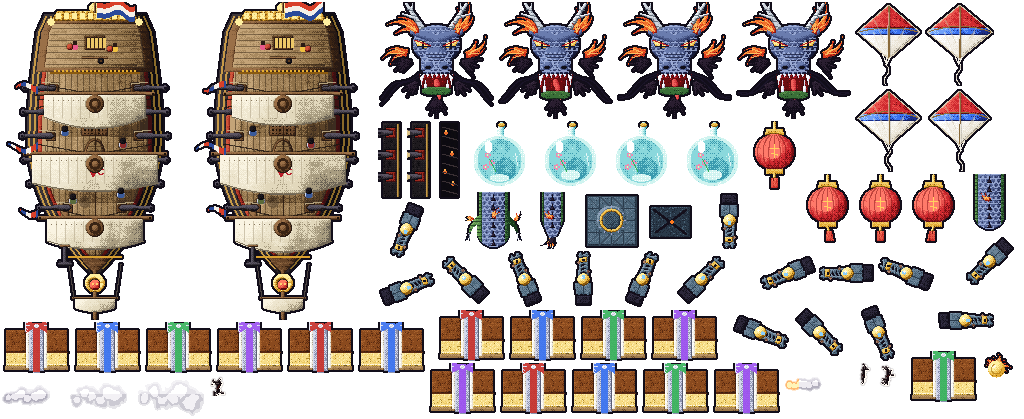
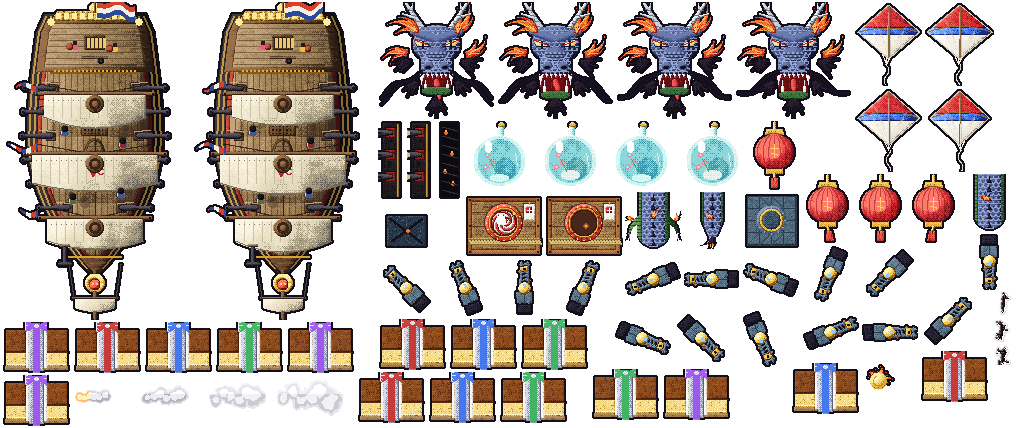
Ja-odori fought mostly with fireworks: festival mortars for launchers, a cooldown, more life
The three launchers are drawn as festival mortars in cypress crates bound with straw rope, loaded with a red and
white paper rocket or spent and smoking, with a ring round the mouth that fills mint as it charges and runs down grey
while it rests. A launcher that fired rests 6 s and every launcher 2 s after any launch. The dragon has 3000 life
instead of 2100; a firework takes 18% of it and bares the head for 3 s at 70% shot damage, 6% otherwise, so the
fireworks do over 80% of the work (JAODORI in src/config.js).

Claude-Session: https://claude.ai/code/session_01MRa5UEHufJmpkQZTQUStvb

diff --git a/src/game/enemies/encounters.js b/src/game/enemies/encounters.js
@@ -1,5 +1,7 @@
 import { clamp, mix, segmentDistance, emberPoint } from './encounterGeometry.js';
 import { DOWN } from './shared.js';
+import { baseScale, enemyTexture, hasEnemyFrame } from '../enemyArt.js';
+import { DEPTH, JAODORI } from '../../config.js';
 
 const GOLD = 0xffd06a, SAFE = 0x81f3cc, WARN = 0xff735e;
 const living = p => !p.dead && p.hp > 0;
@@ -303,7 +305,7 @@ export const encounters = {
     const g = this.bossGroup;
     if (!g || g.defeated || g.kind !== 'jaodori' || !g.launchers || g.parts[0].state !== 'fight') return false;
     for (const pad of g.launchers) {
-      if (pad.cool > 0 || pad.rocket) continue;
+      if (pad.cool > 0 || pad.rocket || g.lock > 0) continue;
       if (Math.abs(shot.x - pad.x) <= 12 + shot.radius && Math.abs(shot.y - pad.y) <= 9 + shot.radius) {
         pad.litUntil = g.t + 0.22;
         return true;
@@ -315,8 +317,16 @@ export const encounters = {
   dragonFestival(g, e, dt) {
     const s = this.scene, ink = this.tele;
     g.open = Math.max(0, (g.open ?? 0) - dt);
-    g.take = { body: g.open ? 1.5 : 0.12 };
+    g.take = { body: g.open ? JAODORI.openTake : JAODORI.shut };
     g.launchers ??= [38, 90, 142].map(x => ({ x, y: s.H - 83, charge: 0, cool: 0, litUntil: 0, rocket: null }));
+    g.lock = Math.max(0, (g.lock ?? 0) - dt); // after a launch every launcher rests a moment
+    // the launchers' art: a festival mortar in its crate, loaded or spent (the plain boxes where it is missing)
+    if (!g.padArt && hasEnemyFrame('n_pad')) {
+      g.padArt = g.launchers.map(() => {
+        const key = enemyTexture('n_pad');
+        return s.add.image(0, 0, key, 'n_pad').setScale(baseScale(key)).setDepth(DEPTH.ground + 0.6);
+      });
+    }
     this.encounterHint(g, 'FAJERWERKI', 'ŁADUJ WYRZUTNIĘ POD SMOKIEM');
     const route = ft => ({ x: 90 + Math.sin(ft * 0.65) * 52, y: 88 + Math.sin(ft * 1.3) * 10 });
     const speed = g.stage >= 3 ? 1.4 : 1;
@@ -332,14 +342,33 @@ export const encounters = {
     for (const pad of g.launchers) {
       pad.y = s.H - 83;
       pad.cool = Math.max(0, pad.cool - dt);
-      if (!pad.rocket && pad.cool <= 0 && pad.litUntil > g.t && s.player.alive && !s.player.entering) pad.charge = Math.min(1, pad.charge + dt);
-      ink.fillStyle(0x28384e, 1).fillRoundedRect(pad.x - 12, pad.y - 9, 24, 18, 3);
-      ink.lineStyle(1.5, pad.cool ? 0x777888 : GOLD, 1).strokeRect(pad.x - 12, pad.y - 9, 24, 18);
-      ink.fillStyle(SAFE, 1).fillRect(pad.x - 10, pad.y + 5, 20 * pad.charge, 3);
-      ink.lineStyle(2, GOLD, 1).lineBetween(pad.x, pad.y - 7, pad.x, pad.y - 17);
+      const ready = !pad.rocket && pad.cool <= 0 && !(g.lock > 0);
+      const lit = ready && pad.litUntil > g.t && s.player.alive && !s.player.entering;
+      if (lit) pad.charge = Math.min(1, pad.charge + dt / JAODORI.charge);
+      const art = g.padArt?.[g.launchers.indexOf(pad)];
+      if (art) {
+        // loaded while it can be charged or is about to fly; spent (dark and dimmed) while it rests
+        art.setPosition(pad.x, pad.y).setFrame(ready || (pad.rocket && pad.rocket.t < 1.2) ? 'n_pad' : 'n_pad_empty');
+        art.setAlpha(ready || pad.rocket ? 1 : 0.7).setTint(lit ? 0xfff0c0 : 0xffffff);
+      } else {
+        ink.fillStyle(0x28384e, 1).fillRoundedRect(pad.x - 12, pad.y - 9, 24, 18, 3);
+        ink.lineStyle(2, GOLD, 1).lineBetween(pad.x, pad.y - 7, pad.x, pad.y - 17);
+      }
+      // round the tube's mouth: the charge filling in mint; while it rests, a grey arc running down
+      const A0 = -Math.PI / 2;
+      if (pad.cool > 0 || (g.lock > 0 && !pad.rocket)) {
+        const k = pad.cool > 0 ? pad.cool / JAODORI.cool : g.lock / JAODORI.lock;
+        ink.lineStyle(2, 0x8a8ca0, 0.9).beginPath().arc(pad.x, pad.y, 7.5, A0, A0 + Math.PI * 2 * k).strokePath();
+      } else if (!pad.rocket) {
+        ink.lineStyle(1, GOLD, 0.5 + 0.3 * Math.sin(g.t * 6)).strokeCircle(pad.x, pad.y, 7.5);
+        if (pad.charge > 0) ink.lineStyle(2.5, SAFE, 1).beginPath().arc(pad.x, pad.y, 7.5, A0, A0 + Math.PI * 2 * pad.charge).strokePath();
+      }
+      if (!art) ink.lineStyle(1.5, ready ? GOLD : 0x777888, ready ? 0.9 : 0.5).strokeRect(pad.x - 12, pad.y - 9, 24, 18);
       if (pad.charge >= 1 && !pad.rocket && !(g.gate > 0)) {
         pad.charge = 0;
         pad.rocket = { t: 0 };
+        g.lock = JAODORI.lock;
+        for (const q of g.launchers) if (q !== pad) q.charge = Math.min(q.charge, 0.5);
         s.fx.text(pad.x, pad.y - 24, 'GOTOWE!', 1, SAFE);
       }
       if (!pad.rocket) continue;
@@ -360,12 +389,13 @@ export const encounters = {
         if (k === 1) {
           s.fx.shockwave(pad.x, 88); s.fx.light(pad.x, 88, 1.5, false, GOLD);
           if (Math.hypot(e.x - pad.x, e.y - 88) < 26) {
-            this.encounterOpen(g, e, 4.5, 'FAJERWERK TRAFIŁ!');
-            g.take.body = 1.5;
-            this.damage(e, e.maxHp * 0.12);
+            this.encounterOpen(g, e, JAODORI.open, 'FAJERWERK TRAFIŁ!');
+            g.take.body = 1;
+            this.damage(e, e.maxHp * JAODORI.firework);
+            g.take.body = JAODORI.openTake;
             g.fireworkHits = (g.fireworkHits ?? 0) + 1;
           }
-          pad.rocket = null; pad.cool = 2.5; pad.litUntil = 0;
+          pad.rocket = null; pad.cool = JAODORI.cool; pad.litUntil = 0;
         }
       }
     }

diff --git a/src/config.js b/src/config.js
@@ -140,6 +140,12 @@ export const WEAPONS = {
   homing: { interval: 1 / 6, damage: 1.4, speed: 210, turn: 3.8, life: 1.15, orbs: [2, 2, 3, 3, 4], arm: 0.18, range: 170, lockY: 18, lockSeen: 0.25 },
 };
 
+// Nagasaki boss Ja-odori: fought mostly with the festival's fireworks. Holding fire on a launcher charges it for
+// `charge` s; a rocket that meets the dragon on its announced path takes `firework` of its life (whatever is open) and
+// bares its head for `open` s, taking `openTake` of shot damage (`shut` the rest of the time). A launcher that fired
+// rests `cool` s; after any launch every launcher rests `lock` s.
+export const JAODORI = { charge: 1, firework: 0.18, open: 3, openTake: 0.7, shut: 0.06, cool: 6, lock: 2 };
+
 // Purple power-up: turrets at the wing tips (up to `max`), each firing a single slow bullet straight up every
 // `interval` s. Together they make a shield: a hit takes a turret instead of the ship, then `grace` s in which the
 // bubble swallows anything else that touches it (bullets within `clear` px are wiped), so one spray cannot take both.

diff --git a/src/game/Enemies.js b/src/game/Enemies.js
@@ -433,6 +433,8 @@ export class Enemies {
     if (e.type === 'boss' && g && !g.defeated && g.parts.every((p) => p.dead || p.hp <= 0 || p.group !== g)) {
       g.defeated = true;
       if (g.duelGhost) this.segPool.kill(g.duelGhost);
+      g.padArt?.forEach((a) => a.destroy());
+      g.padArt = null;
       s.onBossDefeated();
     }
   }

diff --git a/docs/boss-encounters.md b/docs/boss-encounters.md
@@ -9,7 +9,7 @@ Tako 3A, Sankibō 4A, Ja-odori 5C. Kyūbi, Sakurajima i Oni pozostają bez zmian
 | Higuma | Sprowokować trzy przejścia przez stałe palenisko | Trwałe pęknięcia i licznik 0–3; skorupa przepuszcza 2% obrażeń, HP nie spada poniżej 75%, także od bomb; trzecie przejście odsłania Higumę |
 | Tako | Zwabić koniec macki na jeden ze złotych pali i ostrzelać zaklinowany koniec | Mocno zwiększone obrażenia macki, odcięcie odsłania głowę na 4,5 s; głowa nie ginie przed ostatnią fazą |
 | Sankibō | Naprowadzić żar na oznaczone miejsce w pasie wiatru, który zawróci go do pieczęci | 4,5 s odsłonięcia; pochodnie są trwałe, więc źródło żaru nie znika; od drugiej fazy zmienia się kierunek |
-| Ja-odori | Ostrzałem ładować odpowiednią wyrzutnię, przewidując trasę smoka | 1 s ładowania, 1,2 s odliczania, 0,75 s lotu; trafienie zadaje obrażenia i odsłania głowę; czas ładowania nie zależy od obrażeń broni |
+| Ja-odori | Ostrzałem ładować odpowiednią wyrzutnię, przewidując trasę smoka | 1 s ładowania, 1,2 s odliczania, 0,75 s lotu; trafienie zabiera 18% życia i odsłania głowę na 3 s (strzały 70%, poza tym 6%); wyrzutnia po strzale odpoczywa 6 s, a wszystkie 2 s (`JAODORI` w `src/config.js`); czas ładowania nie zależy od obrażeń broni |
 
 Zapowiedzi: czerwony — nadchodzący atak, złoty — obiekt mechaniki, miętowy — cel kontry
 lub odsłonięty słaby punkt. Komunikaty mają wersję PL i EN. Mechaniki pracują w logicznych

diff --git a/README.md b/README.md
@@ -577,7 +577,10 @@ pochodnie Kiezu-no-hi, ognista bariera przepuszcza 35% obrażeń; po ich zgaszen
 spycha statek w bok; poniżej 35% (**gniew góry Misen**) wracają dwie widmowe, nietykalne pochodnie, krążą szybciej
 i strzelają, a pierścień piór kręci się raz w jedną, raz w drugą stronę.
 
-Smok Ja-odori z Nagasaki (2100 życia): taniec nad dokami; od 65% (**spiralny korytarz**) krąży po środku ekranu,
+Smok Ja-odori z Nagasaki (3000 życia), pokonywany głównie fajerwerkami: trzy festiwalowe moździerze w skrzyniach
+na dole ekranu ładuje się ostrzałem, rakieta trafiająca smoka na zapowiedzianym torze zabiera mu 18% życia i na 3 s
+odsłania głowę, a zwykłe strzały poza tym ledwo go drapią (6%); wyrzutnia po strzale stoi pusta 6 s, a po każdym
+wystrzale wszystkie odpoczywają 2 s (szary łuk wokół wylotu, ładowanie — miętowy). Taniec nad dokami; od 65% (**spiralny korytarz**) krąży po środku ekranu,
 a z segmentów strzelają fajerwerki; od 30% (**złoty deszcz nad Inasą**) tańczy o 40% szybciej, perła dzieli się
 na dwie strzelające kule, a przez niebo przelatują krzyżowe salwy fajerwerków.
 
